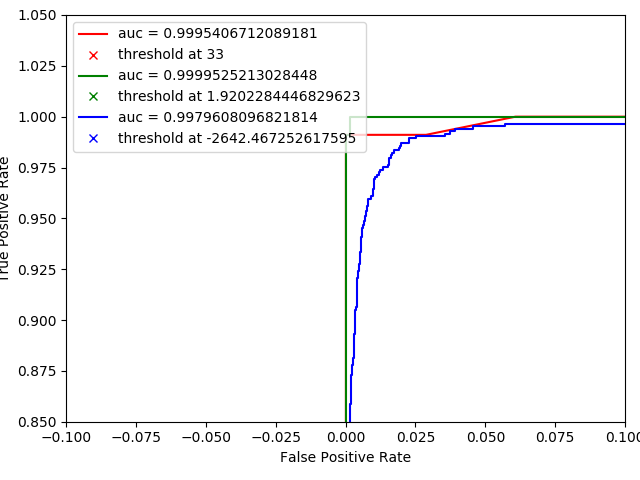
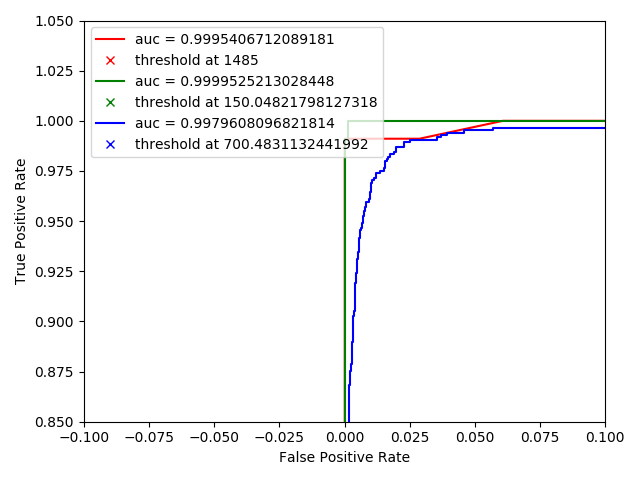
debugging print

diff --git a/hw4/src/main.py b/hw4/src/main.py
@@ -117,11 +117,17 @@ def plot_roc(key_map, color):
   df = pd.DataFrame(key_map, columns=["key", "match"])
 
   fpr, tpr, thresholds = metrics.roc_curve(df["match"], df["key"])
+  print(fpr[1], tpr[1], thresholds[1])
+  # acc_list = []
+  max_threshold = [0, 0]
+  for i in range(len(thresholds)):
+    # acc_list.append(metrics.accuracy_score(df["match"], df["key"] > threshold))
+    if (tpr[i] >= 0.8 and thresholds[i] > max_threshold[1]):
+      max_threshold[0] = i
+      max_threshold[1] = thresholds[i]
 
-  acc_list = []
-  for threshold in thresholds:
-    acc_list.append(metrics.accuracy_score(df["key"] > threshold, df["match"]))
-  threshold_index = (np.abs(np.asarray(acc_list) - 0.8)).argmin()
+  # threshold_index = (np.abs(np.asarray(acc_list) - 0.8)).argmin()
+  threshold_index = max_threshold[0]
 
   auc = metrics.roc_auc_score(df["match"], df["key"])
 
@@ -415,6 +421,7 @@ def main():
 
   plt.xlim(-0.10, 0.10)
   plt.ylim(0.85, 1.05)
+  plt.tight_layout()
   plt.savefig(c.results_folder + "roc_zoom" + c.png_exten)
   plt.close()
 

diff --git a/hw4/src/helper.py b/hw4/src/helper.py
@@ -108,5 +108,21 @@ def get_positives(key_map, threshold):
 
   true_positives = sum(threshold_dict)
   false_positives = len(threshold_dict) - true_positives
+  false_negatives = sum(non_threshold_dict)
+  true_negatives = len(non_threshold_dict) - false_negatives
+
+  # true_positives = np.sum(motif_section)
+  # false_positives = np.sum(nonmotif_section)
+  # false_negatives = np.sum(~motif_section)
+  # true_negatives = np.sum(~nonmotif_section)
+
+  # tpr = true_positives / (true_positives + false_negatives)
+  # fpr = false_positives / (false_positives + true_negatives)
+
+  positives = sum(key[1] for key in key_map)
+  negatives = len(key_map) - positives
+
+  print("tpr: " + str(true_positives / positives) + " or " + str(true_positives / (true_positives + false_negatives)))
+  print("fnr: " + str(true_negatives / negatives) + " or " + str(true_negatives / (true_negatives + false_positives)))
 
   return true_positives, false_positives
